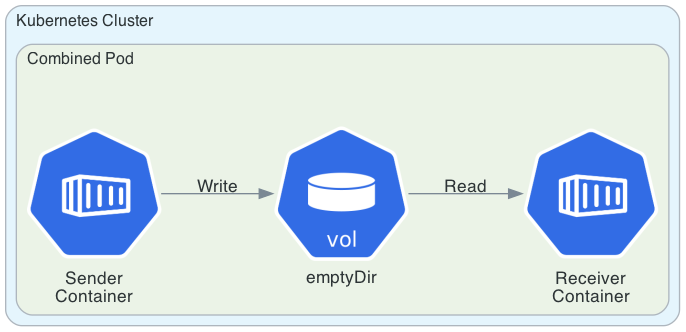
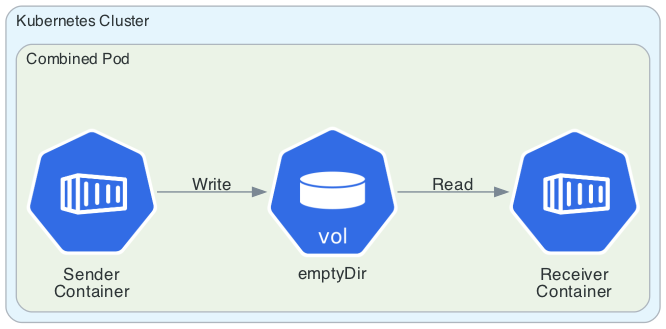
image adjustments

diff --git a/vis/architecture.py b/vis/architecture.py
@@ -71,8 +71,10 @@ def crop_whitespace(image_path):
 
 
 graph_attr = {
-    # "size": "16,9",
-    # "ratio": "fill"
+    "fontsize": "14",
+    "pad": "0.5",
+    "ratio": "0.5",
+    "size": "8,10!"
 }
 
 # Network-based architecture

diff --git a/Readme.md b/Readme.md
@@ -30,7 +30,7 @@ sequenceDiagram
     participant Receiver
     
     Note over Sender: t0 = hrtime()
-    Sender->>Receiver: HTTP POST /upload
+    Sender->>Receiver: HTTP POST
     activate Receiver
     Receiver-->>Sender: HTTP 200 OK
     deactivate Receiver
@@ -99,18 +99,18 @@ Latest benchmark results are saved to `results/runs/YYMMDD_HHMM_*/` with:
 ### Latency Comparison
 Direct comparison of mean transfer times with standard deviation error bars.
 
-![Transfer Time Comparison](results/archive/251229_1545_same-node_http8080_emptyDir/plots/latency_comparison.png)
+![Transfer Time Comparison](results/runs/251229_1545_same-node_http8080_emptyDir/plots/latency_comparison.png)
 
 
 ### Latency Percentiles
 Shows p50 (median), p95, and p99 latency across payload sizes. Each method uses one base color with lighter shades for higher percentiles.
 
-![Latency Percentiles](results/archive/251229_1545_same-node_http8080_emptyDir/plots/latency_percentiles.png)
+![Latency Percentiles](results/runs/251229_1545_same-node_http8080_emptyDir/plots/latency_percentiles.png)
 
 ### Throughput
 Average throughput with standard deviation across payload sizes.
 
-![Throughput](results/archive/251229_1545_same-node_http8080_emptyDir/plots/throughput.png)
+![Throughput](results/runs/251229_1545_same-node_http8080_emptyDir/plots/throughput.png)
 
 
 ## Notes
